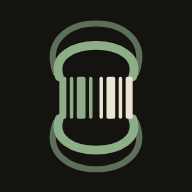
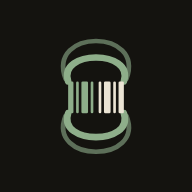
Íconos de 1024, maskable en la zona segura de Android, sin SVG en el manifest
La pantalla de arranque del celu mostraba el ícono en mala calidad. Desde
Android 12 los WebAPK usan la pantalla de arranque del sistema, que dibuja el
ícono adaptable (armado con el maskable) a unos 160 dp y muestra solo los dos
tercios del centro. Con 512 hay que agrandarlo en un celu de densidad alta.

- icon-1024.png e icon-maskable-1024.png, dibujados desde el vector.
- El maskable usa la zona segura de la especificación de Android: los 66 dp
  del centro de un lienzo de 108 dp. Antes se medía con el 80% de la
  especificación web, más floja: el símbolo llegaba al borde. Ahora va al 76%.
- favicon.svg sale del manifest: es la versión simplificada, para 48 px o
  menos, y figuraba como ícono de cualquier tamaño. Sigue como favicon.

Producción servía el mismo manifest que el repo: no era un despliegue viejo
ni el service worker (network-first, manifest con no-cache).

Verificado en Chromium: el manifest no tiene errores, es instalable y los
íconos nuevos se sirven. La pantalla de arranque del celu hay que verla en
uno real, reinstalando la PWA.

Changed region(s): [[0.25, 0.0938, 0.75, 0.9062]]

diff --git a/brand/README.md b/brand/README.md
@@ -82,18 +82,30 @@ public/favicon.svg              simplificada
 public/favicon.ico              simplificada, 16 + 32 + 48 adentro
 public/icon-192.png             completa, cuadrado de esquinas redondeadas
 public/icon-512.png             completa, cuadrado de esquinas redondeadas
-public/icon-maskable-512.png    completa, fondo hasta el borde (Android)
+public/icon-1024.png            la misma, 1024
+public/icon-maskable-1024.png   completa, fondo hasta el borde (Android)
+public/icon-maskable-512.png    la misma, más chica
 public/icon-maskable-192.png    la misma, más chica
 public/apple-touch-icon.png     completa, 180, fondo sólido (iOS no admite transparencia)
 public/og.jpg                   la misma imagen para compartir, en JPG
 ```
 
-**El maskable se mide, no se supone.** Android recorta cada ícono con la
-forma del lanzador y solo garantiza el círculo central del 80%. El script
-rasteriza el 512 y busca el píxel del dibujo más lejano al centro: la línea de
-campo de abajo llega a 203,9 px y la zona segura es de 204,8 px. Entra a
-tamaño completo, justo. Si algún día no entra, el script achica el símbolo
+**El maskable se mide, no se supone.** Con él Android arma el ícono
+adaptable, que recorta con la forma del lanzador y, en la pantalla de
+arranque, con un círculo. Lo que ninguna máscara recorta son los 66 dp del
+centro de un lienzo de 108 dp: la especificación oficial de Android, más
+estricta que el 80% de la especificación web de maskable. El script rasteriza
+el 1024 y busca el píxel del dibujo más lejano al centro: con el símbolo al
+76% llega a 310,1 px y la zona segura es de 312,9 px. Si no entra, lo achica
 (nunca lo recorta).
+
+**Por qué hay 1024.** Desde Android 12 la pantalla de arranque dibuja el
+ícono adaptable a unos 160 dp. Con solo 512, en un celu de densidad alta hay
+que agrandarlo y se ve pixelado.
+
+**El SVG no va en el manifest.** `favicon.svg` es la versión simplificada,
+para 48 px o menos: sigue como favicon, pero en el manifest figuraba como
+ícono de cualquier tamaño.
 
 **En la PC, el dock y la barra de tareas muestran la completa achicada.**
 Probado instalando: Chrome genera los íconos del sistema (32, 48, 128…)
